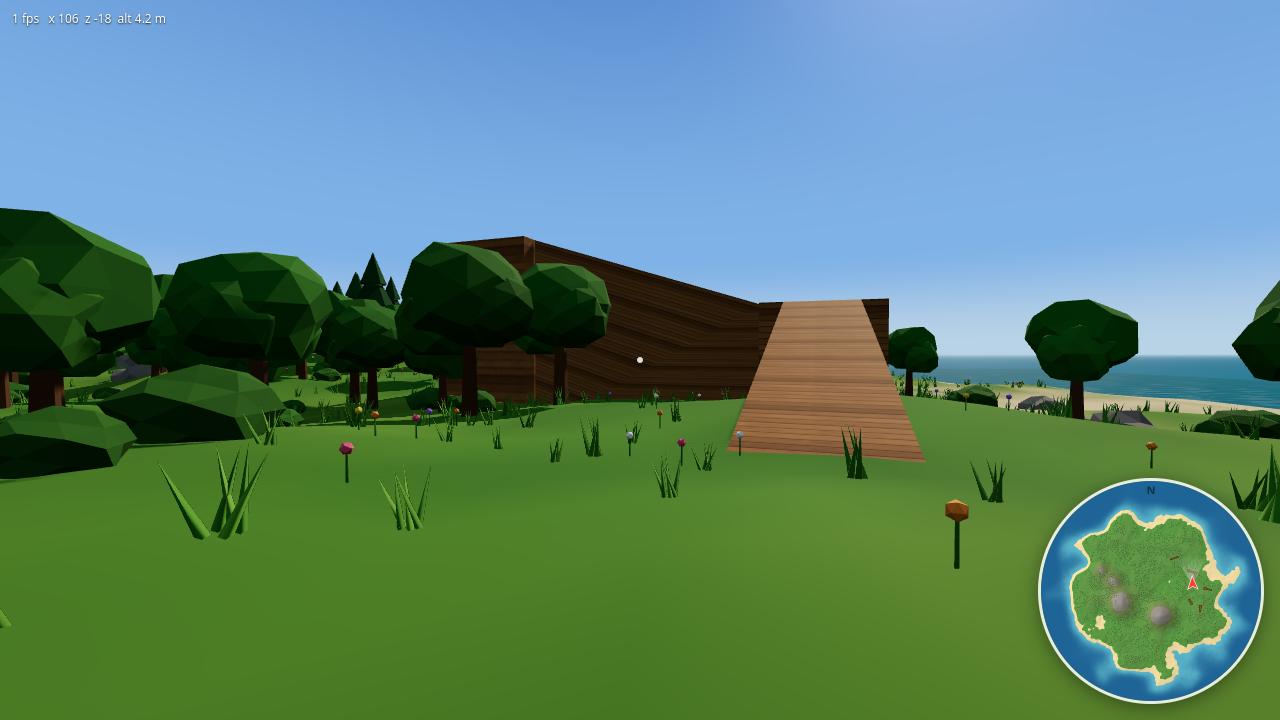
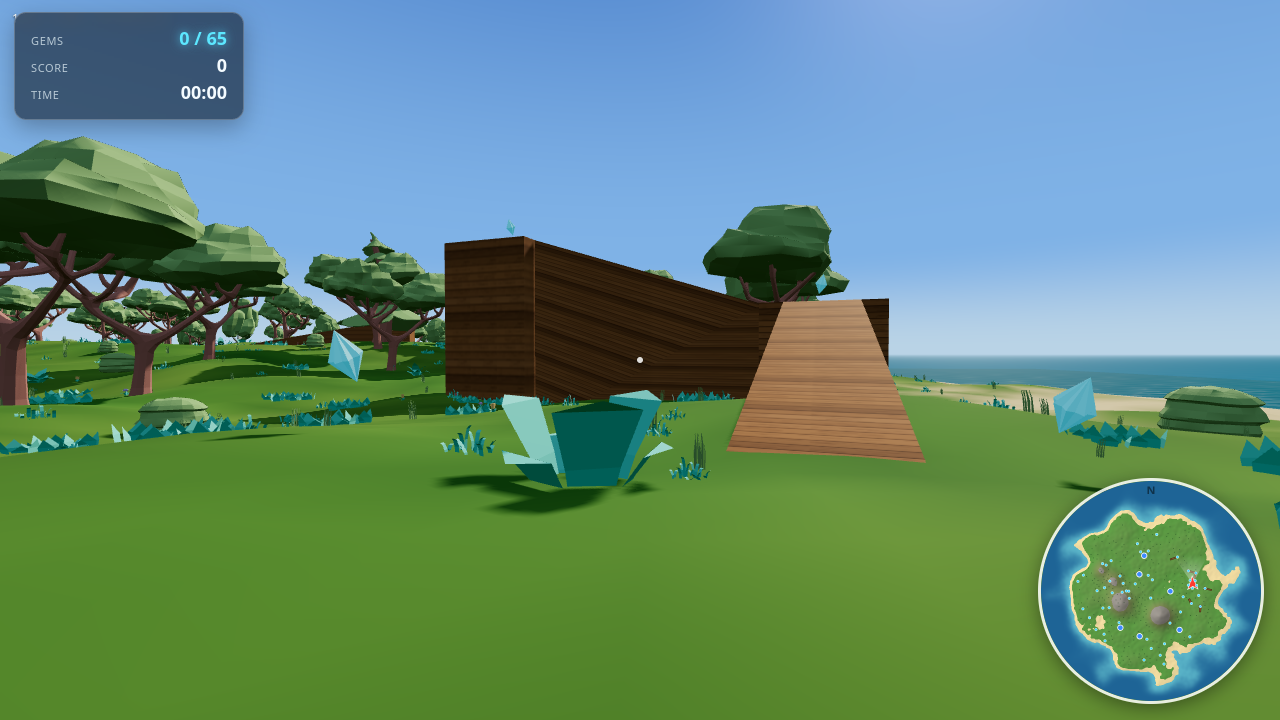
fix: brighten plants, scatter 65 gems, and tidy the HUD
Lift dark CC0 materials, place gems independently of tree spacing, and restyle trampolines.

diff --git a/src/main.js b/src/main.js
@@ -1,5 +1,6 @@
 import * as THREE from 'three';
 import { PointerLockControls } from 'three/addons/controls/PointerLockControls.js';
+import { mergeGeometries } from 'three/addons/utils/BufferGeometryUtils.js';
 import { createNoise2D } from 'simplex-noise';
 import { plantIsland, tickWind } from './vegetation.js';
 
@@ -169,7 +170,7 @@ renderer.setSize(window.innerWidth, window.innerHeight);
 renderer.shadowMap.enabled = true;
 renderer.shadowMap.type = THREE.PCFSoftShadowMap;
 renderer.toneMapping = THREE.ACESFilmicToneMapping;
-renderer.toneMappingExposure = 0.75;
+renderer.toneMappingExposure = 0.88;
 renderer.domElement.id = 'game';
 document.body.prepend(renderer.domElement);
 
@@ -334,7 +335,8 @@ function addTrunk(x, z, r) {
   trunkGrid.get(k).push(t);
 }
 const occupied = [];
-function scatter(count, { minH = 2.4, maxH = 30, minNy = 0.88, spacing = 0, rampMargin = 2, maxTries = count * 30, clusterNoise = null }) {
+function scatter(count, { minH = 2.4, maxH = 30, minNy = 0.88, spacing = 0, rampMargin = 2, maxTries = count * 30, clusterNoise = null, shareOccupied = true, avoidSpawn = 4 }) {
+  const bag = shareOccupied ? occupied : [];
   const out = [];
   let tries = 0;
   while (out.length < count && tries++ < maxTries) {
@@ -344,13 +346,13 @@ function scatter(count, { minH = 2.4, maxH = 30, minNy = 0.88, spacing = 0, ramp
     if (h < minH || h > maxH) continue;
     if (terrainNormalY(x, z) < minNy) continue;
     if (nearAnyRamp(x, z, rampMargin)) continue;
-    if (Math.hypot(x - spawn.x, z - spawn.z) < (spacing > 0 ? 16 : 4)) continue;
+    if (Math.hypot(x - spawn.x, z - spawn.z) < avoidSpawn) continue;
     if (clusterNoise && noiseB(x / clusterNoise.s, z / clusterNoise.s) < clusterNoise.t) continue;
     if (spacing > 0) {
       let ok = true;
-      for (const o of occupied) { const dx = o.x - x, dz = o.z - z; if (dx * dx + dz * dz < spacing * spacing) { ok = false; break; } }
+      for (const o of bag) { const dx = o.x - x, dz = o.z - z; if (dx * dx + dz * dz < spacing * spacing) { ok = false; break; } }
       if (!ok) continue;
-      occupied.push({ x, z });
+      bag.push({ x, z });
     }
     out.push({ x, y: h, z });
   }
@@ -447,26 +449,50 @@ function hitTrampoline() {
   return null;
 }
 
+function trampolineMatTexture() {
+  const cv = document.createElement('canvas'); cv.width = cv.height = 256;
+  const ctx = cv.getContext('2d');
+  ctx.fillStyle = '#2f6fff'; ctx.fillRect(0, 0, 256, 256);
+  ctx.strokeStyle = 'rgba(255,255,255,0.55)'; ctx.lineWidth = 10;
+  ctx.beginPath(); ctx.arc(128, 128, 108, 0, Math.PI * 2); ctx.stroke();
+  ctx.strokeStyle = 'rgba(255,255,255,0.28)'; ctx.lineWidth = 6;
+  ctx.beginPath(); ctx.arc(128, 128, 70, 0, Math.PI * 2); ctx.stroke();
+  ctx.beginPath(); ctx.moveTo(128, 18); ctx.lineTo(128, 238); ctx.stroke();
+  ctx.beginPath(); ctx.moveTo(18, 128); ctx.lineTo(238, 128); ctx.stroke();
+  const t = new THREE.CanvasTexture(cv);
+  t.colorSpace = THREE.SRGBColorSpace;
+  return t;
+}
+
 function makeTrampolineMesh() {
   const g = new THREE.Group();
-  const metal = new THREE.MeshStandardMaterial({ color: 0x3a3d45, roughness: 0.42, metalness: 0.72 });
-  const spring = new THREE.MeshStandardMaterial({ color: 0x8a8f98, roughness: 0.35, metalness: 0.8 });
-  const matMat = new THREE.MeshStandardMaterial({ color: 0x3d8bff, roughness: 0.38, metalness: 0.08, emissive: 0x12306a, emissiveIntensity: 0.28 });
+  const metal = new THREE.MeshStandardMaterial({ color: 0x2b2e34, roughness: 0.4, metalness: 0.78 });
+  const spring = new THREE.MeshStandardMaterial({ color: 0xc5c8ce, roughness: 0.28, metalness: 0.85 });
+  const matMat = new THREE.MeshStandardMaterial({ map: trampolineMatTexture(), roughness: 0.45, metalness: 0.05, emissive: 0x0a2060, emissiveIntensity: 0.22 });
   for (const [x, z] of [[-1, -1], [1, -1], [-1, 1], [1, 1]]) {
-    const leg = new THREE.Mesh(new THREE.CylinderGeometry(0.07, 0.11, 0.82, 8), metal);
-    leg.position.set(x * 0.98, 0.41, z * 0.98);
+    const leg = new THREE.Mesh(new THREE.CylinderGeometry(0.06, 0.1, 0.62, 8), metal);
+    leg.position.set(x * 1.12, 0.28, z * 1.12);
+    leg.rotation.z = -x * 0.22;
+    leg.rotation.x = z * 0.22;
     g.add(leg);
-    const coil = new THREE.Mesh(new THREE.TorusGeometry(0.09, 0.025, 6, 10), spring);
-    coil.position.set(x * 0.92, 0.78, z * 0.92);
-    coil.rotation.x = Math.PI / 2;
+    const foot = new THREE.Mesh(new THREE.SphereGeometry(0.1, 8, 6), metal);
+    foot.position.set(x * 1.22, 0.08, z * 1.22);
+    g.add(foot);
+  }
+  for (let i = 0; i < 18; i++) {
+    const a = (i / 18) * Math.PI * 2;
+    const coil = new THREE.Mesh(new THREE.CylinderGeometry(0.025, 0.025, 0.2, 6), spring);
+    coil.position.set(Math.cos(a) * 1.2, 0.7, Math.sin(a) * 1.2);
+    coil.rotation.z = Math.cos(a) * 0.9;
+    coil.rotation.x = -Math.sin(a) * 0.9;
     g.add(coil);
   }
-  const ring = new THREE.Mesh(new THREE.TorusGeometry(1.18, 0.075, 8, 28), metal);
+  const ring = new THREE.Mesh(new THREE.TorusGeometry(1.28, 0.09, 8, 32), metal);
   ring.rotation.x = Math.PI / 2;
-  ring.position.y = 0.84;
+  ring.position.y = 0.72;
   g.add(ring);
-  const pad = new THREE.Mesh(new THREE.CylinderGeometry(1.1, 1.1, 0.07, 28), matMat);
-  pad.position.y = 0.84;
+  const pad = new THREE.Mesh(new THREE.CylinderGeometry(1.16, 1.16, 0.05, 32), matMat);
+  pad.position.y = 0.7;
   pad.name = 'mat';
   g.add(pad);
   g.traverse((o) => { if (o.isMesh) { o.castShadow = true; o.receiveShadow = true; } });
@@ -474,9 +500,12 @@ function makeTrampolineMesh() {
 }
 
 function diamondGeometry() {
-  const geo = new THREE.OctahedronGeometry(0.38, 0);
-  geo.scale(0.72, 1.18, 0.72);
-  return geo;
+  const a = new THREE.OctahedronGeometry(0.46, 0);
+  a.scale(0.68, 1.22, 0.68);
+  const b = new THREE.OctahedronGeometry(0.46, 0);
+  b.scale(0.68, 1.22, 0.68);
+  b.rotateY(Math.PI / 4);
+  return mergeGeometries([a, b]);
 }
 
 function placeDiamond(x, y, z, { sky = false, points = 100 } = {}) {
@@ -575,7 +604,7 @@ function buildTrampolines() {
     const mat = mesh.getObjectByName('mat');
     trampolines.push({
       x: spot.x, z: spot.z, y: spot.y,
-      padY: spot.y + 0.84 * s,
+      padY: spot.y + 0.7 * s,
       r: 1.15 * s,
       mesh, mat, squash: 0,
     });
@@ -583,7 +612,13 @@ function buildTrampolines() {
 }
 
 function buildDiamonds() {
-  const ground = scatter(40, { minH: 2.4, maxH: 26, minNy: 0.8, spacing: 14, rampMargin: 2.5, maxTries: 40 * 40 });
+  for (let i = 0; i < 5; i++) {
+    const a = (i / 5) * Math.PI * 2 + 0.35;
+    const x = spawn.x + Math.cos(a) * 11, z = spawn.z + Math.sin(a) * 11;
+    const h = terrainHeight(x, z);
+    if (h > 1.2) placeDiamond(x, h + 1.35, z, { points: 100 });
+  }
+  const ground = scatter(34, { minH: 2.2, maxH: 26, minNy: 0.78, spacing: 11, rampMargin: 2.2, maxTries: 34 * 50, shareOccupied: false, avoidSpawn: 8 });
   for (const p of ground) placeDiamond(p.x, p.y + 1.25, p.z, { points: 100 });
   for (const rp of ramps) {
     if (rp.PL <= 0) continue;
@@ -595,22 +630,17 @@ function buildDiamonds() {
     const a = rand(0, Math.PI * 2);
     placeDiamond(pad.x + Math.cos(a) * 3.2, pad.padY + 23.5, pad.z + Math.sin(a) * 3.2, { sky: true, points: 250 });
   }
-  const extraHills = scatter(6, { minH: 14, maxH: 30, minNy: 0.82, spacing: 18, rampMargin: 4 });
+  const extraHills = scatter(8, { minH: 12, maxH: 30, minNy: 0.8, spacing: 16, rampMargin: 4, shareOccupied: false, avoidSpawn: 8 });
   for (const p of extraHills) placeDiamond(p.x, p.y + 1.3, p.z, { points: 150 });
 
   diamondMesh = new THREE.InstancedMesh(
     diamondGeometry(),
-    new THREE.MeshPhysicalMaterial({
-      color: 0x7af2ff,
-      emissive: 0x2aa8ff,
-      emissiveIntensity: 0.85,
-      metalness: 0.15,
-      roughness: 0.08,
-      transparent: true,
-      opacity: 0.92,
-      transmission: 0.35,
-      ior: 2.3,
-      reflectivity: 1,
+    new THREE.MeshStandardMaterial({
+      color: 0xc8ffff,
+      emissive: 0x3ad4ff,
+      emissiveIntensity: 1.35,
+      metalness: 0.25,
+      roughness: 0.12,
     }),
     Math.max(diamonds.length, 1)
   );
@@ -813,7 +843,12 @@ window.game = {
 };
 window.game.simulate = (seconds, k = {}) => {
   Object.assign(keys, k);
-  for (let t = 0; t < seconds; t += 1 / 120) updatePlayer(1 / 120);
+  let tAcc = 0;
+  for (let t = 0; t < seconds; t += 1 / 120) {
+    updatePlayer(1 / 120);
+    tAcc += 1 / 120;
+    updateDiamonds(1 / 120, tAcc);
+  }
   for (const c in k) keys[c] = false;
   return player.pos.toArray();
 };

diff --git a/index.html b/index.html
@@ -20,9 +20,9 @@
   #minimap { position: fixed; right: 16px; bottom: 16px; width: min(220px, 34vmin); height: min(220px, 34vmin); border-radius: 50%; border: 3px solid rgba(255,255,255,0.85); box-shadow: 0 4px 18px rgba(0,0,0,0.4); z-index: 6; pointer-events: none; }
   #hud { position: fixed; left: 12px; top: 10px; color: #fff; font-size: 12px; text-shadow: 0 1px 2px rgba(0,0,0,0.8); z-index: 6; pointer-events: none; white-space: pre; }
   #game-hud { position: fixed; left: 14px; top: 12px; z-index: 7; pointer-events: none; }
-  .hud-card { background: rgba(12, 22, 34, 0.58); color: #f4fbff; padding: 10px 14px 11px; border-radius: 12px; border: 1px solid rgba(255,255,255,0.22); box-shadow: 0 8px 24px rgba(0,0,0,0.28); backdrop-filter: blur(8px); min-width: 168px; }
-  .hud-row { display: flex; align-items: baseline; gap: 8px; margin: 2px 0; font-variant-numeric: tabular-nums; }
-  .hud-row .label { color: #b7c8d4; font-size: 11px; letter-spacing: 0.04em; text-transform: uppercase; width: 58px; }
+  .hud-card { background: rgba(12, 22, 34, 0.58); color: #f4fbff; padding: 10px 16px 12px; border-radius: 12px; border: 1px solid rgba(255,255,255,0.22); box-shadow: 0 8px 24px rgba(0,0,0,0.28); backdrop-filter: blur(8px); min-width: 196px; }
+  .hud-row { display: flex; align-items: baseline; justify-content: space-between; gap: 18px; margin: 3px 0; font-variant-numeric: tabular-nums; }
+  .hud-row .label { color: #b7c8d4; font-size: 11px; letter-spacing: 0.06em; text-transform: uppercase; }
   .hud-row .value { font-size: 18px; font-weight: 700; }
   .hud-row .gem { color: #5ce7ff; text-shadow: 0 0 10px rgba(80, 220, 255, 0.8); }
   #win { position: fixed; inset: 0; display: none; align-items: center; justify-content: center; background: rgba(8, 18, 30, 0.55); z-index: 12; }

diff --git a/src/vegetation.js b/src/vegetation.js
@@ -31,6 +31,19 @@ function applyWind(material, strength) {
   material.customProgramCacheKey = () => `veg-wind-${strength}`;
 }
 
+function prepareMaterial(material, geometry) {
+  if (geometry.attributes.color) {
+    material.vertexColors = true;
+    if (material.color) material.color.set(0xffffff);
+  } else if (material.color) {
+    const max = Math.max(material.color.r, material.color.g, material.color.b);
+    if (max > 0 && max < 0.32) material.color.multiplyScalar(Math.min(0.58 / max, 4.2));
+  }
+  material.metalness = 0;
+  material.roughness = 0.82;
+  material.side = THREE.DoubleSide;
+}
+
 function isFoliage(mesh) {
   const label = `${mesh.name} ${mesh.parent?.name || ''} ${mesh.material?.name || ''}`.toLowerCase();
   if (/trunk|bark|wood|log|stump/.test(label)) return false;
@@ -51,10 +64,13 @@ export async function loadPrefab(url) {
     geometry.computeBoundingBox();
     box.union(geometry.boundingBox);
     const src = Array.isArray(obj.material) ? obj.material[0] : obj.material;
+    const material = src.clone();
+    const foliage = isFoliage(obj);
+    prepareMaterial(material, geometry);
     parts.push({
       geometry,
-      material: src.clone(),
-      foliage: isFoliage(obj),
+      material,
+      foliage,
       name: obj.name,
     });
   });
